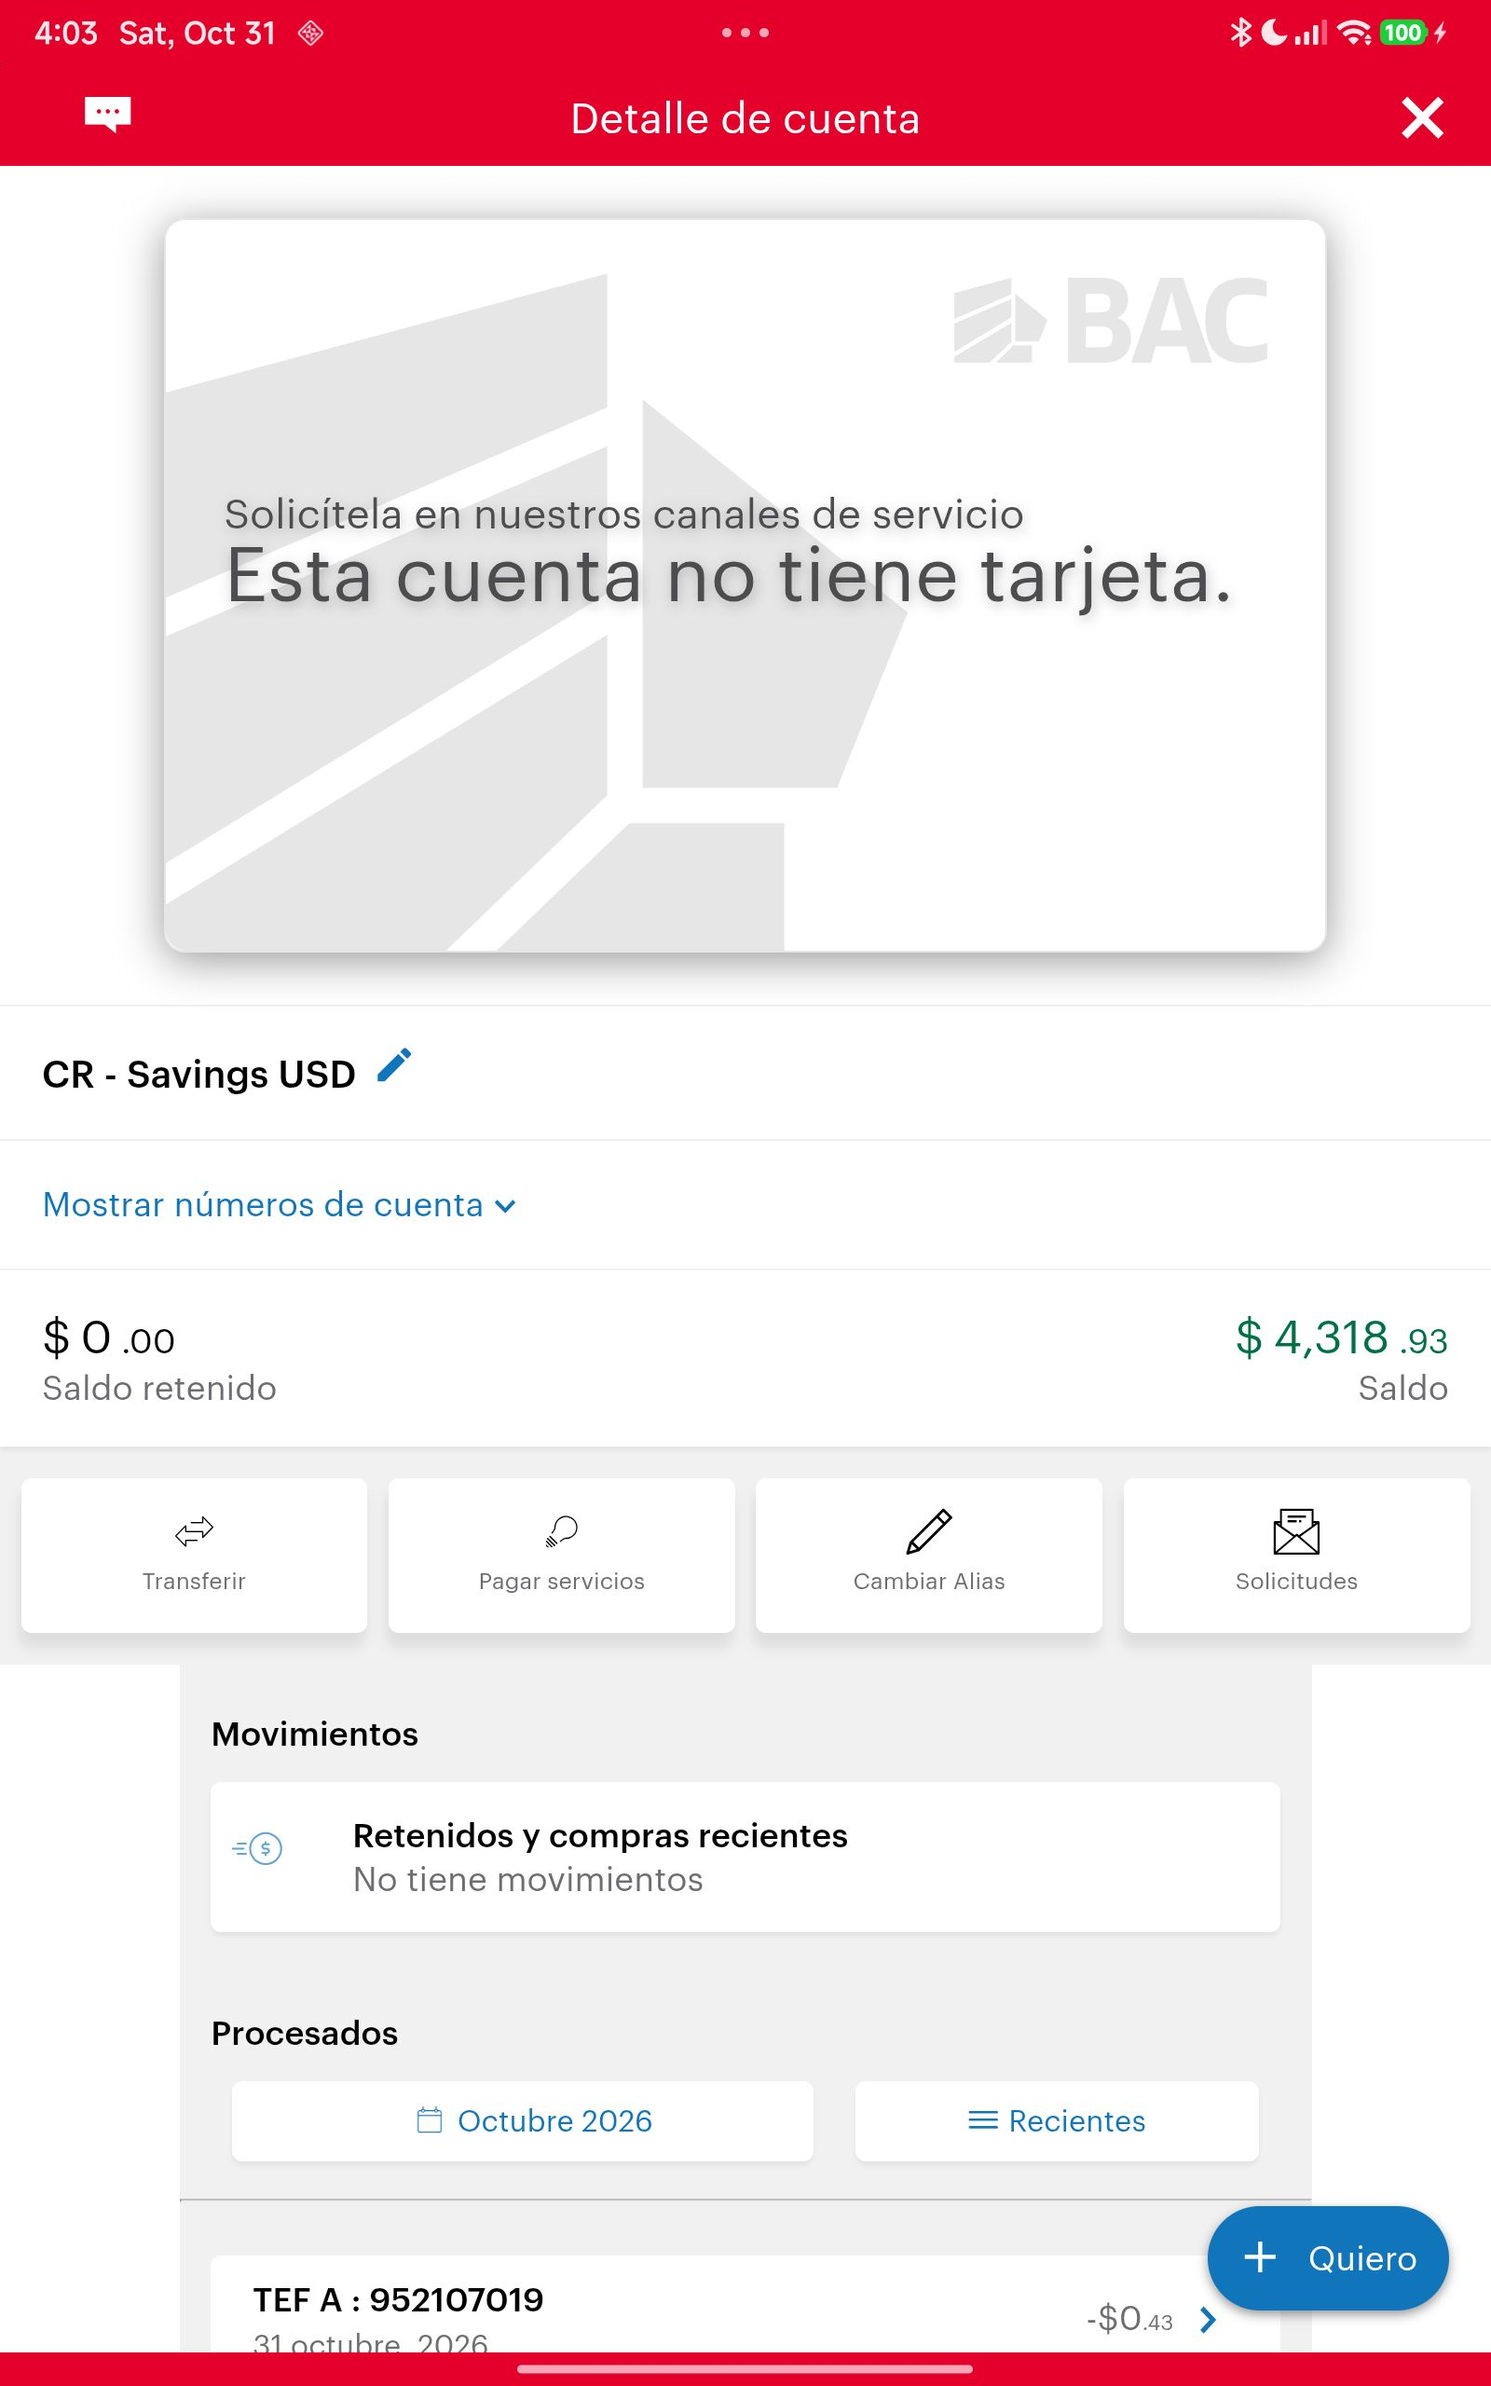
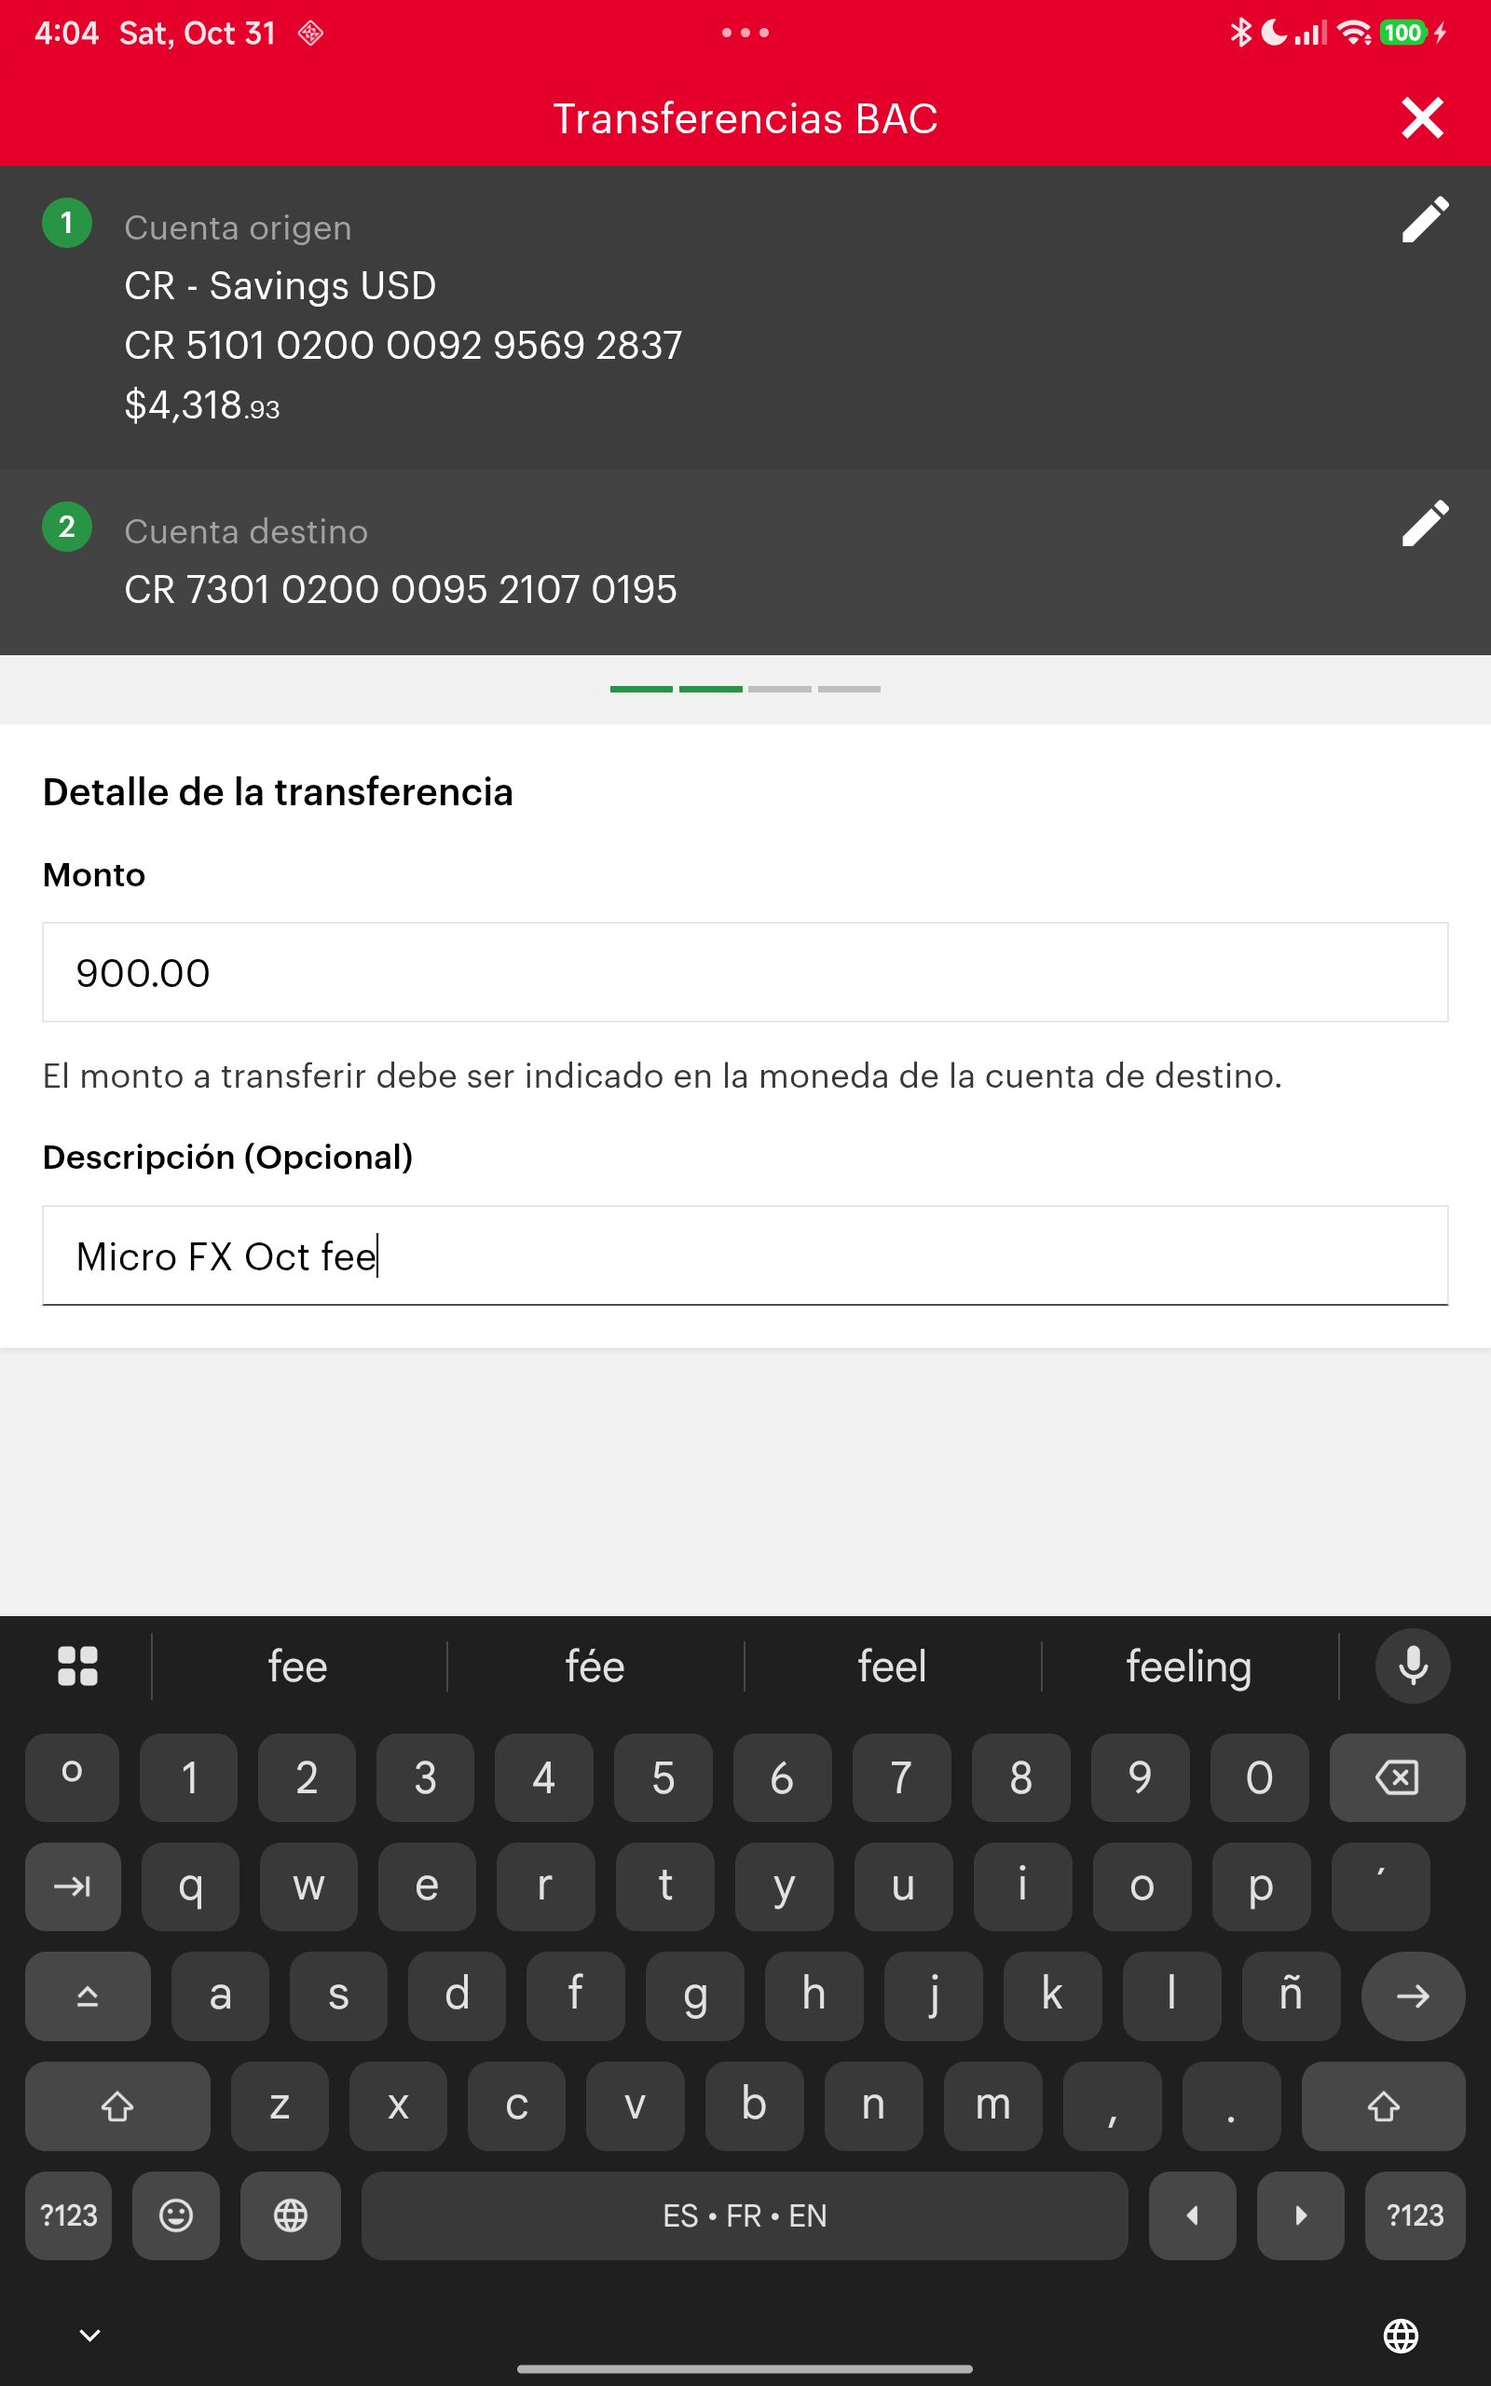
Experience memory (slices C+D): retrieve lessons into Jev + import/add_lesson
Closes Phase 1 of the experience-memory spec.

- Retrieval injection (C): at run start the Runner queries the store for lessons
  relevant to (target, app, goal) and appends them to the goal as advisory hints.
  Advisory only — the model may ignore them and the money/secret/loop guards are
  unchanged. The raw goal (flow naming) is not polluted; lessons are PII-scrubbed.
- Ingest content (D): one-time import of lessons.md into retrievable lessons (DB is
  then source of truth; re-import is a no-op), plus an `add_lesson` MCP tool + daemon
  op so agents curate lessons instead of hand-editing the file.

Now: every run records scrubbed metrics, and every run auto-retrieves relevant
lessons as hints. AGENT-GUIDE documents add_lesson. 348 tests pass.

Spec: docs/superpowers/specs/2026-10-31-experience-memory-design.md

diff --git a/jev_runner/runner.py b/jev_runner/runner.py
@@ -92,10 +92,12 @@ class Runner:
                  cfg: Config, *, max_steps: int = 40, money_params: list[str] | None = None,
                  flow: Flow | None = None, save_as: str | None = None,
                  store: FlowStore | None = None, start: str | None = None,
-                 learn: bool = True, choose=model.choose, field_text=model.field_text, verify=None):
+                 learn: bool = True, choose=model.choose, field_text=model.field_text, verify=None,
+                 memory=None):
         self.session_id, self.target, self.params, self.cfg = session_id, target, params, cfg
         self.goal = goal_text(goal, params)
         self._goal_raw = goal  # saved flows keep the goal without this run's values
+        self._add_hints(memory, target, goal, start)  # fold retrieved lessons into the goal context
         self.max_steps, self.money_params, self.flow = max_steps, money_params or [], flow
         if flow is not None:  # the flow's money-critical keys guard every replay
             self.money_params = sorted({*self.money_params, *flow.money_params})
@@ -266,6 +268,21 @@ class Runner:
     def _pending_for(self, kind: str, action: dict, page: dict, **extra) -> dict:
         return {"type": kind, "locator": locator_of(action), "action_id": action["id"],
                 "label": action.get("label"), "fingerprint": page.get("fingerprint"), **extra}
+
+    def _add_hints(self, memory, target, goal, start) -> None:
+        """Query the experience memory for lessons relevant to this goal/app and append them to the
+        goal as advisory hints. Advisory only — the model may ignore them and the guards are
+        unchanged. Lessons are already PII-scrubbed in the store, so nothing sensitive is added."""
+        if memory is None:
+            return
+        try:
+            hints = memory.query_lessons(target=getattr(target, "kind", None), app=start,
+                                         goal=goal, k=3)
+        except Exception:
+            return  # retrieval must never break a run
+        if hints:
+            self.goal += ("\n\nWhat we've learned before (hints — may not all apply):\n"
+                          + "\n".join(f"- {h['body']}" for h in hints if h.get("body")))
 
     def _touch(self):
         self.last_used = time.time()

diff --git a/jev_runner/daemon.py b/jev_runner/daemon.py
@@ -82,6 +82,7 @@ class Daemon:
         try:  # a memory failure must never take the daemon down; runs just aren't recorded
             from .memory import MemoryStore
             self.memory = MemoryStore(cfg.data_dir / "memory.db")
+            self.memory.import_lessons_md(cfg.data_dir / "lessons.md")  # one-time; no-op after
         except Exception:
             self.memory = None
             log.exception("experience memory unavailable")
@@ -240,7 +241,8 @@ class Daemon:
                 session.runner = self.runner_factory(
                     session.session_id, session.target, goal, params, self.cfg,
                     max_steps=max_steps, money_params=money_params, flow=chosen,
-                    save_as=save_as, store=self.store, start=start, learn=learn)
+                    save_as=save_as, store=self.store, start=start, learn=learn,
+                    memory=self.memory)
             except BaseException:
                 if new:  # don't leave a runner-less session holding a device
                     self._close_session(session)
@@ -365,6 +367,16 @@ class Daemon:
             finally:
                 session.last_used = time.time()
             return {"session_id": session_id, **out}
+
+    def op_add_lesson(self, target: str | None = None, app: str | None = None, goal: str = "",
+                      body: str = "", screen_tags: str = "") -> dict:
+        if self.memory is None:
+            raise OpError("memory_unavailable")
+        if not body.strip():
+            raise OpError("bad_args: body is required")
+        lid = self.memory.add_lesson(target=target, app=app, goal=goal, body=body,
+                                     screen_tags=screen_tags, source="agent")
+        return {"lesson_id": lid}
 
     def op_end_session(self, session_id: str) -> dict:
         session = self._get(session_id)

diff --git a/tests/test_runner.py b/tests/test_runner.py
@@ -56,6 +56,27 @@ def _osc_page(fp, cid, label):
             "actions": [{"id": cid, "node": 1, "kind": "click", "label": label, "role": "button"}]}
 
 
+def test_retrieved_lessons_are_injected_into_the_goal(cfg):
+    class FakeMemory:
+        def __init__(self): self.seen = {}
+        def query_lessons(self, **kw):
+            self.seen = kw
+            return [{"body": "avoid the Quiero sheet"}, {"body": "hide keyboard before Continuar"}]
+
+    mem = FakeMemory()
+    r = Runner("s", FakeTarget([page()]), "pay the planilla", {"amount": 5}, cfg,
+               choose=scripted_choose(["DONE"]), start="net.bac.sbe.android", memory=mem)
+    assert "avoid the Quiero sheet" in r.goal and "hide keyboard before Continuar" in r.goal
+    assert r.goal.startswith("pay the planilla")  # original goal + values preserved
+    assert r._goal_raw == "pay the planilla"  # raw goal (for flow naming) is NOT polluted
+    assert mem.seen["app"] == "net.bac.sbe.android" and mem.seen["target"] == "android"
+
+
+def test_no_memory_leaves_goal_unchanged(cfg):
+    r = Runner("s", FakeTarget([page()]), "do a thing", None, cfg, choose=scripted_choose(["DONE"]))
+    assert r.goal == "do a thing"  # no memory -> no hints block
+
+
 def test_oscillation_between_two_screens_is_stopped(cfg):
     # open wrong account -> back -> open again -> ...  Each step changes the screen, so no_progress
     # never fires; the loop detector must stop it well before max_steps.

diff --git a/jev_runner/memory.py b/jev_runner/memory.py
@@ -97,5 +97,24 @@ class MemoryStore:
             [*params, k]).fetchall()
         return [dict(r) for r in rows]
 
+    def import_lessons_md(self, path, target=None) -> int:
+        """One-time import of a freeform lessons.md into retrievable lessons (one per H2 section).
+        After import the DB is the source of truth, so a second call is a no-op."""
+        path = Path(path)
+        if not path.exists():
+            return 0
+        if self._conn.execute(
+                "SELECT COUNT(*) FROM lessons WHERE source = 'lessons.md'").fetchone()[0]:
+            return 0  # already imported
+        count = 0
+        # [1:] drops the preamble before the first H2 (not a lesson); each remaining chunk is a section
+        for part in re.split(r"(?m)^##\s+", path.read_text(errors="replace"))[1:]:
+            body = part.strip()
+            if len(body) < 20:  # skip tiny fragments
+                continue
+            self.add_lesson(target=target, goal=body.splitlines()[0], body=body, source="lessons.md")
+            count += 1
+        return count
+
     def close(self) -> None:
         self._conn.close()

diff --git a/tests/test_daemon.py b/tests/test_daemon.py
@@ -283,6 +283,20 @@ def test_run_through_daemon_records_metrics(daemon_with_fakes, keys, script):
     assert daemon_with_fakes.memory._conn.execute("SELECT COUNT(*) FROM runs").fetchone()[0] == 1
 
 
+def test_add_lesson_op_stores_and_is_retrievable(daemon_with_fakes):
+    d = daemon_with_fakes
+    r = d.handle({"op": "add_lesson", "args": {"target": "android", "app": "com.whatsapp",
+                                               "goal": "forward invoice", "body": "long-press then Forward"}})
+    assert r["ok"] and r["result"]["lesson_id"] >= 1
+    hits = d.memory.query_lessons(target="android", app="com.whatsapp", goal="forward")
+    assert any("Forward" in h["body"] for h in hits) and hits[0]["source"] == "agent"
+
+
+def test_add_lesson_requires_body(daemon_with_fakes):
+    r = daemon_with_fakes.handle({"op": "add_lesson", "args": {"body": "  "}})
+    assert r["ok"] is False and "body" in r["error"]
+
+
 def test_flows_listed_used_and_deleted(daemon_with_fakes, keys, cfg):
     store = FlowStore(cfg.data_dir / "flows")
     store.save(Flow(name="otp-flow", target="android", start=None, goal="otp"))

diff --git a/server.py b/server.py
@@ -100,6 +100,17 @@ def end_session(session_id: str) -> dict:
 
 
 @mcp.tool()
+def add_lesson(body: str, target: str | None = None, app: str | None = None,
+               goal: str = "", screen_tags: str = "") -> dict:
+    """Save a durable lesson to the experience memory (replaces hand-editing lessons.md). `body` is
+    the knowledge ("avoid the Quiero sheet", "hide keyboard before Continuar"); `target`/`app`/`goal`
+    scope it so future runs on the same app/goal retrieve it. Account/PII digit runs are stripped
+    before storing. Use this for durable playbook knowledge, not one-off notes."""
+    return _call("add_lesson", {"body": body, "target": target, "app": app,
+                                "goal": goal, "screen_tags": screen_tags})
+
+
+@mcp.tool()
 def status() -> dict:
     """Show daemon status: `sessions` (each with session_id, target, status and idle_s),
     `android` (`serial` last reached and whether it is `connected`) and `flows` (count of

diff --git a/tests/test_memory.py b/tests/test_memory.py
@@ -55,6 +55,18 @@ def test_record_run_and_roundtrip(tmp_path):
     assert "148000" not in row["goal"] and "88244852" not in row["goal"]  # scrubbed
 
 
+def test_import_lessons_md_is_one_time(tmp_path):
+    md = tmp_path / "lessons.md"
+    md.write_text("# Lessons\n\nsome preamble\n\n"
+                  "## 2026-10-31 BAC SINPE\nUse A SINPE Movil, avoid the Quiero sheet.\n\n"
+                  "## WhatsApp forward\nLong-press the message then Forward.\n")
+    s = store(tmp_path)
+    assert s.import_lessons_md(md) == 2  # two H2 sections, preamble skipped
+    assert s.import_lessons_md(md) == 0  # idempotent: DB is now source of truth
+    hits = s.query_lessons(goal="SINPE Quiero", k=5)
+    assert any("Quiero" in h["body"] for h in hits)
+
+
 def test_match_query_is_fts_safe(tmp_path):
     # punctuation / FTS operators in the goal must not raise
     s = store(tmp_path)

diff --git a/tests/test_server.py b/tests/test_server.py
@@ -14,7 +14,7 @@ def _tools():
 def test_tools_registered():
     assert set(_tools()) == {
         "run_task", "resume", "screenshot", "read", "end_session", "status",
-        "list_flows", "delete_flow",
+        "list_flows", "delete_flow", "add_lesson",
     }
 
 
@@ -50,6 +50,7 @@ def test_run_task_forwards_all_args(monkeypatch):
     ("status", {}, "status"),
     ("list_flows", {}, "list_flows"),
     ("delete_flow", {"name": "n"}, "delete_flow"),
+    ("add_lesson", {"body": "a lesson"}, "add_lesson"),
 ])
 def test_thin_tools_forward(monkeypatch, tool, args, op):
     calls = []

diff --git a/docs/AGENT-GUIDE.md b/docs/AGENT-GUIDE.md
@@ -50,7 +50,11 @@ fine now — the socket is relocated to a short path when needed).
 | `screenshot(session_id)` | Saves a PNG of the screen, returns its path. Use it to check before approving anything. |
 | `read(session_id)` | Read-only. Returns the page's visible `text` and per-iframe `frames`, **including cross-origin iframes** the normal snapshot can't see (e.g. a white-labelled GHL automation screen). Use it to list/read content when a `run_task` only "waits" because the real UI is in an iframe. It **self-settles** (re-reads until the text stops growing, up to ~12 s), so no manual sleep is needed. Only visible rows of a virtualised table are captured. Never clicks or changes anything. |
 | `end_session(session_id)` | Always call when finished, and after `money_action_uncertain`. |
+| `add_lesson(body, target, app, goal, screen_tags)` | Save durable playbook knowledge to the experience memory (replaces hand-editing `lessons.md`), e.g. "avoid the Quiero sheet". Scope it with `target`/`app`/`goal` so future runs on the same app/goal retrieve it automatically. Account/PII digit runs are stripped. |
 | `status`, `list_flows`, `delete_flow` | Housekeeping. |
+
+Every run also records scrubbed metrics, and each run automatically retrieves the lessons relevant
+to its goal/app and feeds them to Jev as hints — so writing a good lesson once helps future runs.
 
 ## Results and what to do
 
